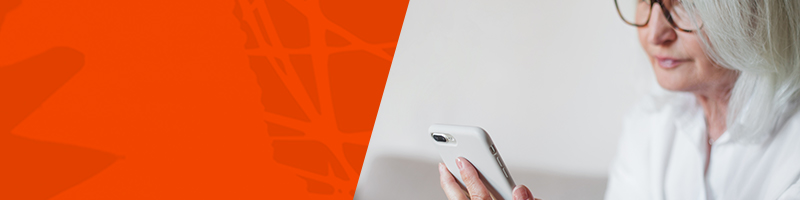
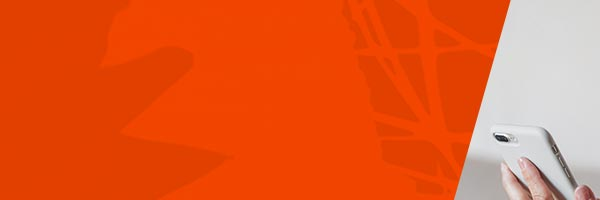
header area update

diff --git a/senior-survey.css b/senior-survey.css
@@ -16,7 +16,7 @@ body {
 
 header {
     background: url(img/mobile-hdr.jpg);
-    background-size: auto auto;
+    background-size: cover;
 }
 
 /* CLASSES */
@@ -105,7 +105,7 @@ header {
 .header-content {
     width: 100%;
     max-width: 500px;
-    padding: 3% 5%;
+    padding: 4% 5%;
 }
 
 .header-content p:first-child {
@@ -127,7 +127,6 @@ header {
     width: 90%;
     max-width: 1000px;
     margin: 0 auto;
-    padding: 10px;
 }
 
 .content-aside-wrap {
@@ -151,12 +150,11 @@ ul.sticky-social-icons li {
 img.sticky-social-icons {
     width: 35px;
     height: auto;
-    margin: 30px 10px;
+    margin: 30px 5px;
 }
 
 .introduction {
     max-width: 1000px;
-    margin-top: 60px;
 }
 
 /* DISPLAY NAV LINKS */
@@ -216,12 +214,21 @@ img.sticky-social-icons {
 
 /* MEDIA QUERIES */
 
-@media screen and (min-width: 768px) {
+@media screen and (min-width: 500px) {
     header {
-        background: url(img/wide-hdr.jpg);
-        background-size: cover;
-        background-position: 50% 0%;
+        background: url(img/desktop-hdr.jpg);
+        background-position: 20% 50%;
     }
+}
+
+@media screen and (min-width: 730px) {
+    header {
+        background: url(img/desktop-hdr.jpg);
+        background-size: cover;
+    }
+}
+
+@media screen and (min-width: 768px) {
 
     ul.sticky-social-icons li {
         display: block;
@@ -238,6 +245,10 @@ img.sticky-social-icons {
         top: 200px;
         margin: 30px 0 0 50px;
         background: #ffffff;
+    }
+
+    .introduction {
+        margin-top: 60px;
     }
 }
 
